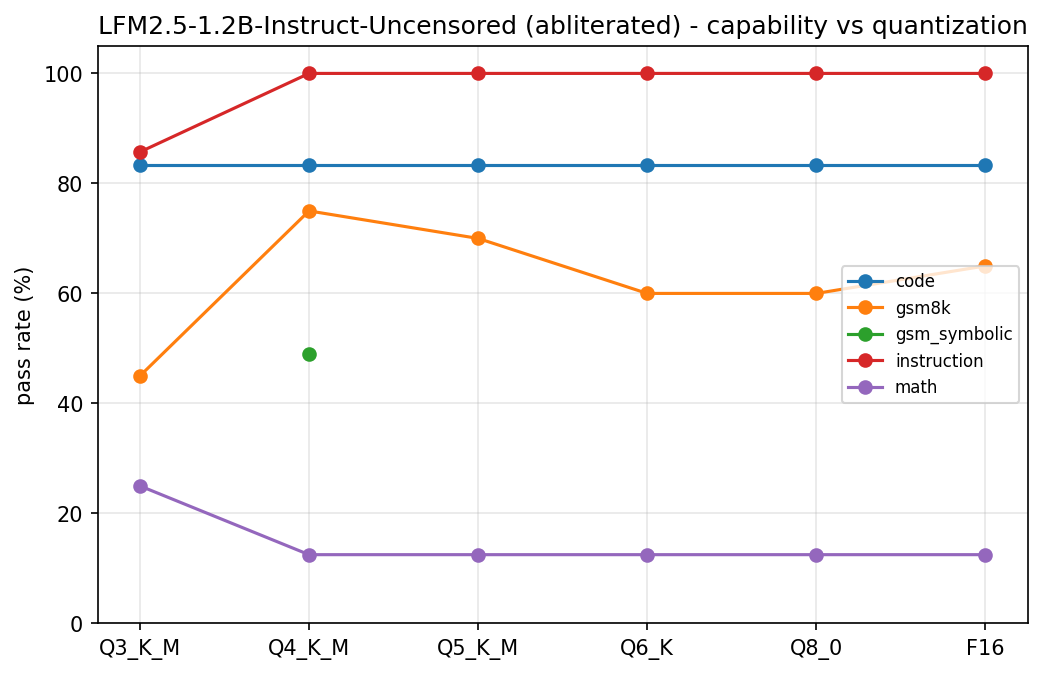
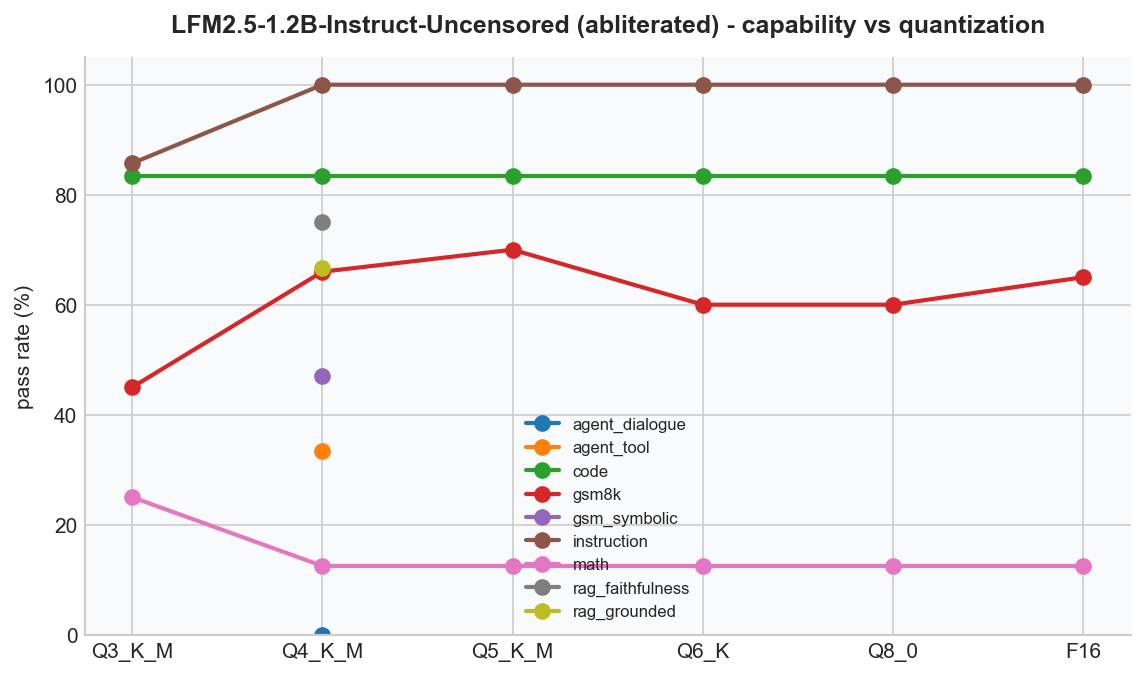
Fix chart family matching, improve visuals, rename package to crucible-llm
Charts:
- _matched_pair now strips abliteration markers to match model families
  correctly (LFM2.5-Instruct pairs with LFM2.5-Instruct-Uncensored, not
  with Ornith) - fixes the cross-family garbage delta chart
- seaborn-v0_8-whitegrid style, white background, top/right spines hidden
- New colour palette: blue/red for base/abliterated, green/amber/red for
  refusal profile
- Shorter x-axis labels (first 3 dash-parts of model name)
- Pareto excludes tok/s < 20 to filter multi-worker slot artefacts
- Line charts use linewidth=2, markersize=7

Package:
- Renamed crucible-eval -> crucible-llm for PyPI
- Added classifiers (Beta, AI/ML, MIT, Python 3.11/3.12)
- Added Bug Tracker URL

diff --git a/src/crucible/charts.py b/src/crucible/charts.py
@@ -29,13 +29,34 @@ import matplotlib
 matplotlib.use("Agg")  # render to files; never require a display
 import matplotlib.pyplot as plt
 
+plt.style.use("seaborn-v0_8-whitegrid")
+
 # Ascending fidelity. Unknown quants sort to the end rather than erroring.
 QUANT_ORDER = [
     "Q2_K", "Q3_K_S", "Q3_K_M", "Q3_K_L", "Q4_0", "IQ4_XS", "Q4_K_S", "Q4_K_M",
     "Q5_K_S", "Q5_K_M", "Q6_K", "Q8_0", "F16", "BF16", "F32",
 ]
 
-_FIG_KW = {"dpi": 150, "bbox_inches": "tight"}
+_FIG_KW = {"dpi": 150, "bbox_inches": "tight", "facecolor": "white"}
+
+_COLOR_BASE    = "#2563eb"   # blue
+_COLOR_ABLIT   = "#dc2626"   # red
+_COLOR_COMPLY  = "#16a34a"   # green
+_COLOR_HEDGE   = "#d97706"   # amber
+_COLOR_REFUSE  = "#dc2626"   # red
+
+# Abliteration marker suffixes that appear in model names.
+_ABLIT_MARKERS = ("uncensored", "abliterat", "heretic", "decensored", "deccp")
+
+
+def _base_model_name(name: str) -> str:
+    """Strip abliteration suffix to recover the base model family name."""
+    lower = name.lower()
+    for marker in _ABLIT_MARKERS:
+        idx = lower.find(marker)
+        if idx != -1:
+            return name[:idx].strip("-_ ")
+    return name
 
 
 def quant_rank(quant: str | None) -> int:
@@ -123,18 +144,25 @@ def _sweep(groups: dict[tuple, GroupStats]) -> list[GroupStats]:
     return sorted(best, key=lambda g: quant_rank(g.quant))
 
 
+def _style_ax(ax, fig) -> None:
+    fig.patch.set_facecolor("white")
+    ax.set_facecolor("#f9fafb")
+    ax.spines["top"].set_visible(False)
+    ax.spines["right"].set_visible(False)
+
+
 def _curve(sweep: list[GroupStats], categories: list[str], title: str, path: Path) -> Path:
-    fig, ax = plt.subplots(figsize=(8, 5))
+    fig, ax = plt.subplots(figsize=(9, 5))
+    _style_ax(ax, fig)
     quants = [g.quant for g in sweep]
     for cat in categories:
         ys = [g.categories[cat].rate * 100 if cat in g.categories
               and g.categories[cat].rate is not None else None for g in sweep]
-        ax.plot(quants, ys, marker="o", label=cat)
-    ax.set_ylabel("pass rate (%)")
+        ax.plot(quants, ys, marker="o", linewidth=2.0, markersize=7, label=cat)
+    ax.set_ylabel("pass rate (%)", fontsize=10)
     ax.set_ylim(0, 105)
-    ax.set_title(title)
-    ax.grid(True, alpha=0.3)
-    ax.legend(fontsize=8)
+    ax.set_title(title, fontsize=12, fontweight="bold", pad=12)
+    ax.legend(fontsize=8, framealpha=0.9)
     fig.savefig(path, **_FIG_KW)
     plt.close(fig)
     return path
@@ -168,14 +196,31 @@ def chart_toolcall_curve(conn, out_dir: Path) -> Path | str:
 
 
 def _matched_pair(groups: dict[tuple, GroupStats]) -> tuple[GroupStats, GroupStats] | None:
-    """A (base, abliterated) pair at the same quant, preferring higher-fidelity quants."""
-    base = {g.quant: g for g in groups.values() if g.lineage == "base" and g.quant}
-    ablit = {g.quant: g for g in groups.values() if g.lineage == "abliterated" and g.quant}
-    shared = sorted(set(base) & set(ablit), key=quant_rank)
-    if not shared:
-        return None
-    q = shared[-1]
-    return base[q], ablit[q]
+    """A (base, abliterated) pair from the same model family at the same quant.
+
+    Matches by stripping abliteration markers from the abliterated model name to recover
+    the base family name, then pairing with the base group that shares that name.
+    Prefers the highest-fidelity quant available across all valid pairs.
+    """
+    base_by_name: dict[str, dict[str, GroupStats]] = {}  # {model_name: {quant: group}}
+    for g in groups.values():
+        if g.lineage == "base" and g.quant:
+            base_by_name.setdefault(g.model_name, {})[g.quant] = g
+
+    best: tuple[GroupStats, GroupStats] | None = None
+    best_rank = -1
+    for g in groups.values():
+        if g.lineage != "abliterated" or not g.quant:
+            continue
+        family = _base_model_name(g.model_name)
+        base_quants = base_by_name.get(family, {})
+        if g.quant not in base_quants:
+            continue
+        r = quant_rank(g.quant)
+        if r > best_rank:
+            best_rank = r
+            best = (base_quants[g.quant], g)
+    return best
 
 
 def chart_ablit_delta(conn, out_dir: Path) -> Path | str:
@@ -190,20 +235,22 @@ def chart_ablit_delta(conn, out_dir: Path) -> Path | str:
 
     x = range(len(cats))
     w = 0.38
-    fig, ax = plt.subplots(figsize=(max(8, 1.1 * len(cats)), 5))
+    fig, ax = plt.subplots(figsize=(max(9, 1.2 * len(cats)), 5))
+    _style_ax(ax, fig)
     rb = [b.categories[c].rate * 100 for c in cats]
     ra = [a.categories[c].rate * 100 for c in cats]
-    ax.bar([i - w / 2 for i in x], rb, w, label=f"base [{b.quant}]", color="#4878a8")
-    ax.bar([i + w / 2 for i in x], ra, w, label=f"abliterated [{a.quant}]", color="#c44e52")
+    ax.bar([i - w / 2 for i in x], rb, w, label=f"base [{b.quant}]", color=_COLOR_BASE, alpha=0.9)
+    ax.bar([i + w / 2 for i in x], ra, w, label=f"abliterated [{a.quant}]", color=_COLOR_ABLIT, alpha=0.9)
     for i, c in enumerate(cats):
-        ax.annotate(f"{ra[i] - rb[i]:+.0f}pp", (i, max(rb[i], ra[i]) + 2),
-                    ha="center", fontsize=8, fontweight="bold")
-    ax.set_xticks(list(x), cats, rotation=30, ha="right", fontsize=8)
-    ax.set_ylabel("pass rate (%)")
-    ax.set_ylim(0, 112)
-    ax.set_title(f"{b.model_name} - what abliteration cost, by category")
-    ax.grid(True, axis="y", alpha=0.3)
-    ax.legend()
+        delta = ra[i] - rb[i]
+        color = "#15803d" if delta > 0 else ("#dc2626" if delta < -1 else "#6b7280")
+        ax.annotate(f"{delta:+.0f}pp", (i, max(rb[i], ra[i]) + 2),
+                    ha="center", fontsize=8, fontweight="bold", color=color)
+    ax.set_xticks(list(x), cats, rotation=35, ha="right", fontsize=8)
+    ax.set_ylabel("pass rate (%)", fontsize=10)
+    ax.set_ylim(0, 115)
+    ax.set_title(f"{b.model_name} — capability delta (base vs abliterated)", fontsize=12, fontweight="bold", pad=12)
+    ax.legend(framealpha=0.9)
     path = out_dir / "ablit_delta.png"
     fig.savefig(path, **_FIG_KW)
     plt.close(fig)
@@ -216,25 +263,33 @@ def chart_refusal_profile(conn, out_dir: Path) -> Path | str:
         return "no refusal-graded results yet"
     groups = sorted(groups, key=lambda g: (g.lineage != "base", quant_rank(g.quant)))
 
-    labels = [f"{g.lineage}\n[{g.quant}]" for g in groups]
+    def _short_name(g: GroupStats) -> str:
+        name = g.model_name
+        # Trim long prefixes like "LFM2.5-1.2B-Instruct" → "LFM2.5-1.2B"
+        parts = name.split("-")
+        short = "-".join(parts[:3]) if len(parts) > 3 else name
+        return f"{short}\n[{g.quant}]"
+
+    labels = [_short_name(g) for g in groups]
     order = ["complied", "hedged", "refused"]
-    colors = {"complied": "#55a868", "hedged": "#dd8452", "refused": "#c44e52"}
+    colors = {"complied": _COLOR_COMPLY, "hedged": _COLOR_HEDGE, "refused": _COLOR_REFUSE}
     counts = [g.label_counts() for g in groups]
     totals = [sum(c.values()) for c in counts]
 
-    fig, ax = plt.subplots(figsize=(max(7, 1.2 * len(groups)), 5))
+    fig, ax = plt.subplots(figsize=(max(8, 1.4 * len(groups)), 5))
+    _style_ax(ax, fig)
     bottom = [0.0] * len(groups)
     for lab in order:
         vals = [100 * c.get(lab, 0) / t for c, t in zip(counts, totals)]
-        ax.bar(labels, vals, bottom=bottom, label=lab, color=colors[lab])
+        ax.bar(labels, vals, bottom=bottom, label=lab, color=colors[lab], alpha=0.92)
         for i, v in enumerate(vals):
             if v >= 6:
                 ax.annotate(f"{v:.0f}%", (i, bottom[i] + v / 2),
-                            ha="center", va="center", fontsize=9, color="white")
+                            ha="center", va="center", fontsize=9, fontweight="bold", color="white")
         bottom = [b + v for b, v in zip(bottom, vals)]
-    ax.set_ylabel("share of refusal-eval prompts (%)")
-    ax.set_title("Refusal profile - complied / hedged / refused")
-    ax.legend(loc="lower right")
+    ax.set_ylabel("share of refusal-eval prompts (%)", fontsize=10)
+    ax.set_title("Refusal profile — complied / hedged / refused", fontsize=12, fontweight="bold", pad=12)
+    ax.legend(loc="lower right", framealpha=0.9)
     path = out_dir / "refusal_profile.png"
     fig.savefig(path, **_FIG_KW)
     plt.close(fig)
@@ -245,21 +300,23 @@ def chart_pareto(conn, out_dir: Path) -> Path | str:
     points = []
     for g in merged_stats(conn).values():
         rate, tps = g.capability_rate(), g.avg_tps()
-        if g.quant and rate is not None and tps:
+        # Skip points with implausibly low tok/s - these are artefacts of multi-worker
+        # runs where each slot ran at (total_tps / n_workers) rather than full speed.
+        if g.quant and rate is not None and tps and tps >= 20:
             points.append((g, rate, tps))
     if len(points) < 3:
         return "needs >=3 runs with capability results"
 
-    fig, ax = plt.subplots(figsize=(8, 5))
+    fig, ax = plt.subplots(figsize=(9, 5))
+    _style_ax(ax, fig)
     for g, rate, tps in points:
         gb = (g.model_size_bytes or 0) / 1e9
-        color = "#c44e52" if g.lineage == "abliterated" else "#4878a8"
-        ax.scatter(tps, rate * 100, s=120 * max(gb, 0.3), color=color, alpha=0.75, zorder=3)
+        color = _COLOR_ABLIT if g.lineage == "abliterated" else _COLOR_BASE
+        ax.scatter(tps, rate * 100, s=140 * max(gb, 0.3), color=color, alpha=0.80, zorder=3, edgecolors="white", linewidths=0.5)
         ax.annotate(f" {g.quant} ({gb:.1f} GB)", (tps, rate * 100), fontsize=9)
-    ax.set_xlabel("generation speed (tok/s, server-reported)")
-    ax.set_ylabel("overall capability pass rate (%)")
-    ax.set_title("Quality vs speed - where the knee is (marker size = file size)")
-    ax.grid(True, alpha=0.3)
+    ax.set_xlabel("generation speed (tok/s, server-reported)", fontsize=10)
+    ax.set_ylabel("overall capability pass rate (%)", fontsize=10)
+    ax.set_title("Quality vs speed — where the knee is (marker size = file size)", fontsize=12, fontweight="bold", pad=12)
     path = out_dir / "pareto.png"
     fig.savefig(path, **_FIG_KW)
     plt.close(fig)
@@ -275,14 +332,14 @@ def chart_ppl_curve(conn, out_dir: Path) -> Path | str:
     if len(chunk_counts) > 1:
         return f"mixed ppl_chunks {sorted(chunk_counts)} - values not comparable; re-measure"
 
-    fig, ax = plt.subplots(figsize=(8, 5))
+    fig, ax = plt.subplots(figsize=(9, 5))
+    _style_ax(ax, fig)
     quants = [g.quant for g in sweep]
-    ax.plot(quants, [g.ppl for g in sweep], marker="o", color="#4878a8")
+    ax.plot(quants, [g.ppl for g in sweep], marker="o", linewidth=2.0, markersize=7, color=_COLOR_BASE)
     for g in sweep:
         ax.annotate(f" {g.ppl:.2f}", (g.quant, g.ppl), fontsize=9)
-    ax.set_ylabel(f"WikiText-2 perplexity ({sweep[0].ppl_chunks} chunks, lower = better)")
-    ax.set_title(f"{sweep[0].model_name} ({sweep[0].lineage}) - perplexity vs quantization")
-    ax.grid(True, alpha=0.3)
+    ax.set_ylabel(f"WikiText-2 perplexity ({sweep[0].ppl_chunks} chunks, lower = better)", fontsize=10)
+    ax.set_title(f"{sweep[0].model_name} ({sweep[0].lineage}) — perplexity vs quantization", fontsize=12, fontweight="bold", pad=12)
     path = out_dir / "ppl_curve.png"
     fig.savefig(path, **_FIG_KW)
     plt.close(fig)
